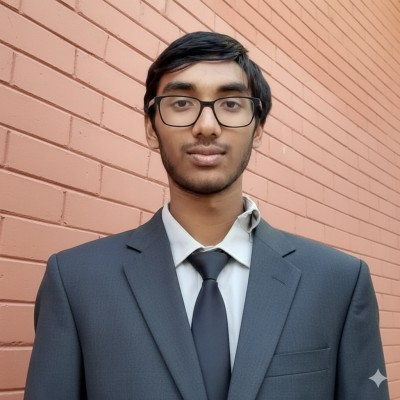
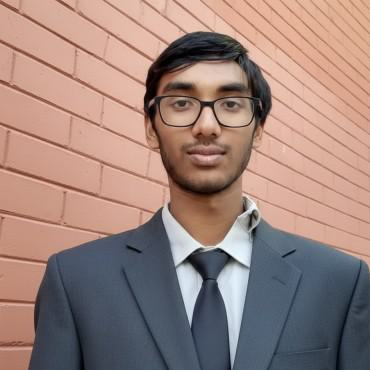
feat: update portfolio with new experience, certifications, and GitHub project links

diff --git a/projects.html b/projects.html
@@ -65,6 +65,12 @@
                                 <span class="tech-tag">AVFoundation</span>
                             </div>
                             <p class="card-detail">Building a gesture recognition engine to classify hand poses into live system actions via CGEvent. Implementing streaming LLM responses via SSE with sentence-chunked TTS, achieving sub-1.5s end-to-end voice response latency.</p>
+                            <div style="margin-top: 1rem;">
+                                <a href="https://github.com/Pranavkalakota/Orion" target="_blank" class="btn-ghost" style="padding: 0.5rem 1rem; font-size: 0.875rem; display: inline-flex; align-items: center; gap: 0.5rem;">
+                                    <svg width="16" height="16" fill="currentColor" viewBox="0 0 24 24"><path fill-rule="evenodd" d="M12 2C6.477 2 2 6.484 2 12.017c0 4.425 2.865 8.18 6.839 9.504.5.092.682-.217.682-.483 0-.237-.008-.868-.013-1.703-2.782.605-3.369-1.343-3.369-1.343-.454-1.158-1.11-1.466-1.11-1.466-.908-.62.069-.608.069-.608 1.003.07 1.531 1.032 1.531 1.032.892 1.53 2.341 1.088 2.91.832.092-.647.35-1.088.636-1.338-2.22-.253-4.555-1.113-4.555-4.951 0-1.093.39-1.988 1.029-2.688-.103-.253-.446-1.272.098-2.65 0 0 .84-.27 2.75 1.026A9.564 9.564 0 0112 6.844c.85.004 1.705.115 2.504.337 1.909-1.296 2.747-1.027 2.747-1.027.546 1.379.202 2.398.1 2.651.64.7 1.028 1.595 1.028 2.688 0 3.848-2.339 4.695-4.566 4.943.359.309.678.92.678 1.855 0 1.338-.012 2.419-.012 2.747 0 .268.18.58.688.482A10.019 10.019 0 0022 12.017C22 6.484 17.522 2 12 2z" clip-rule="evenodd" /></svg>
+                                    GitHub Repo
+                                </a>
+                            </div>
                         </article>
                         <article class="content-card project-card">
                             <div class="card-meta">
@@ -80,6 +86,12 @@
                                 <span class="tech-tag">OpenAI API</span>
                             </div>
                             <p class="card-detail">Designed a graceful degradation layer that automatically falls back from the OpenAI API to a local regex-based parser with fuzzy typo tolerance. Structured prompts to return strict JSON and implemented confirmation safeguards.</p>
+                            <div style="margin-top: 1rem;">
+                                <a href="https://github.com/Pranavkalakota/MCP-Server" target="_blank" class="btn-ghost" style="padding: 0.5rem 1rem; font-size: 0.875rem; display: inline-flex; align-items: center; gap: 0.5rem;">
+                                    <svg width="16" height="16" fill="currentColor" viewBox="0 0 24 24"><path fill-rule="evenodd" d="M12 2C6.477 2 2 6.484 2 12.017c0 4.425 2.865 8.18 6.839 9.504.5.092.682-.217.682-.483 0-.237-.008-.868-.013-1.703-2.782.605-3.369-1.343-3.369-1.343-.454-1.158-1.11-1.466-1.11-1.466-.908-.62.069-.608.069-.608 1.003.07 1.531 1.032 1.531 1.032.892 1.53 2.341 1.088 2.91.832.092-.647.35-1.088.636-1.338-2.22-.253-4.555-1.113-4.555-4.951 0-1.093.39-1.988 1.029-2.688-.103-.253-.446-1.272.098-2.65 0 0 .84-.27 2.75 1.026A9.564 9.564 0 0112 6.844c.85.004 1.705.115 2.504.337 1.909-1.296 2.747-1.027 2.747-1.027.546 1.379.202 2.398.1 2.651.64.7 1.028 1.595 1.028 2.688 0 3.848-2.339 4.695-4.566 4.943.359.309.678.92.678 1.855 0 1.338-.012 2.419-.012 2.747 0 .268.18.58.688.482A10.019 10.019 0 0022 12.017C22 6.484 17.522 2 12 2z" clip-rule="evenodd" /></svg>
+                                    GitHub Repo
+                                </a>
+                            </div>
                         </article>
                         <article class="content-card project-card">
                             <div class="card-meta">
@@ -93,6 +105,12 @@
                                 <span class="tech-tag">AI TTS</span>
                             </div>
                             <p class="card-detail">Combined synchronized haptic feedback with body-awareness exercises, and text-to-speech cognitive reassurance.</p>
+                            <div style="margin-top: 1rem;">
+                                <a href="https://github.com/Pranavkalakota/VEDA" target="_blank" class="btn-ghost" style="padding: 0.5rem 1rem; font-size: 0.875rem; display: inline-flex; align-items: center; gap: 0.5rem;">
+                                    <svg width="16" height="16" fill="currentColor" viewBox="0 0 24 24"><path fill-rule="evenodd" d="M12 2C6.477 2 2 6.484 2 12.017c0 4.425 2.865 8.18 6.839 9.504.5.092.682-.217.682-.483 0-.237-.008-.868-.013-1.703-2.782.605-3.369-1.343-3.369-1.343-.454-1.158-1.11-1.466-1.11-1.466-.908-.62.069-.608.069-.608 1.003.07 1.531 1.032 1.531 1.032.892 1.53 2.341 1.088 2.91.832.092-.647.35-1.088.636-1.338-2.22-.253-4.555-1.113-4.555-4.951 0-1.093.39-1.988 1.029-2.688-.103-.253-.446-1.272.098-2.65 0 0 .84-.27 2.75 1.026A9.564 9.564 0 0112 6.844c.85.004 1.705.115 2.504.337 1.909-1.296 2.747-1.027 2.747-1.027.546 1.379.202 2.398.1 2.651.64.7 1.028 1.595 1.028 2.688 0 3.848-2.339 4.695-4.566 4.943.359.309.678.92.678 1.855 0 1.338-.012 2.419-.012 2.747 0 .268.18.58.688.482A10.019 10.019 0 0022 12.017C22 6.484 17.522 2 12 2z" clip-rule="evenodd" /></svg>
+                                    GitHub Repo
+                                </a>
+                            </div>
                         </article>
                     </div>
                 </div>

diff --git a/experience.html b/experience.html
@@ -54,15 +54,23 @@
                     <article class="content-card experience-card">
                         <div class="card-header">
                             <div>
-                                <h2 class="card-title">Volunteer Medical Assistant</h2>
-                                <p class="card-subtitle">Southern Hills Hospital</p>
+                                <h2 class="card-title">Hardware Engineer Intern</h2>
+                                <p class="card-subtitle">Crcle</p>
                             </div>
-                            <span class="card-date">August 2023 – January 2025</span>
+                            <span class="card-date">June 2026 – Present</span>
                         </div>
-                        <ul class="card-list">
-                            <li>Supported 50+ patients weekly by streamlining intake and assisting medical staff during peak hours.</li>
-                            <li>Collaborated on community outreach initiatives, including child-centered health education events.</li>
-                        </ul>
+                        <p style="margin-bottom: 1rem;">reimagining intelligence</p>
+                        <a href="https://crcle.ai/" target="_blank" class="btn-ghost" style="padding: 0.5rem 1rem; font-size: 0.875rem; display: inline-block;">Visit Website</a>
+                    </article>
+                    <article class="content-card experience-card">
+                        <div class="card-header">
+                            <div>
+                                <h2 class="card-title">Software Engineering Intern</h2>
+                                <p class="card-subtitle">Pololu Corporation</p>
+                            </div>
+                            <span class="card-date">June 2026 – Present</span>
+                        </div>
+                        <a href="https://www.pololu.com/" target="_blank" class="btn-ghost" style="padding: 0.5rem 1rem; font-size: 0.875rem; display: inline-block;">Visit Website</a>
                     </article>
                     <article class="content-card experience-card">
                         <div class="card-header">

diff --git a/education.html b/education.html
@@ -74,10 +74,18 @@
                             <h3 class="card-title" style="font-size: 1.125rem;">Deloitte Data Analytics Certificate</h3>
                             <p class="card-desc" style="margin: 0.5rem 0 0;">Conducted market research, consumer needs analysis and data analysis to create a client recommendation.</p>
                         </div>
-                        <div class="content-card">
+                        <div class="content-card" style="margin-bottom: 1rem;">
                             <h3 class="card-title" style="font-size: 1.125rem;">Claude Builder Hackathon - 1st Place</h3>
                             <p class="card-date" style="margin: 0.25rem 0;">Healthcare Track - February 2026</p>
                             <p class="card-desc" style="margin: 0.5rem 0 0;">Received 1st place in the healthcare track for VEDA.</p>
+                        </div>
+                        <div class="content-card" style="margin-bottom: 1rem;">
+                            <h3 class="card-title" style="font-size: 1.125rem;">Dean's List Award</h3>
+                            <p class="card-desc" style="margin: 0.5rem 0 0;">Purdue University</p>
+                        </div>
+                        <div class="content-card">
+                            <h3 class="card-title" style="font-size: 1.125rem;">Generative AI Fundamentals Certificate</h3>
+                            <p class="card-desc" style="margin: 0.5rem 0 0;">Databricks</p>
                         </div>
                     </article>
                 </div>

diff --git a/resume.html b/resume.html
@@ -230,6 +230,8 @@
                         research, consumer needs analysis, and data analysis to create a client recommendation.</li>
                     <li><span class="font-semibold">Claude Builder Hackathon</span> – Received 1st place in the
                         healthcare track for VEDA.</li>
+                    <li><span class="font-semibold">Dean's List Award</span> – Purdue University</li>
+                    <li><span class="font-semibold">Generative AI Fundamentals Certificate</span> – Databricks</li>
                 </ul>
             </section>
 
